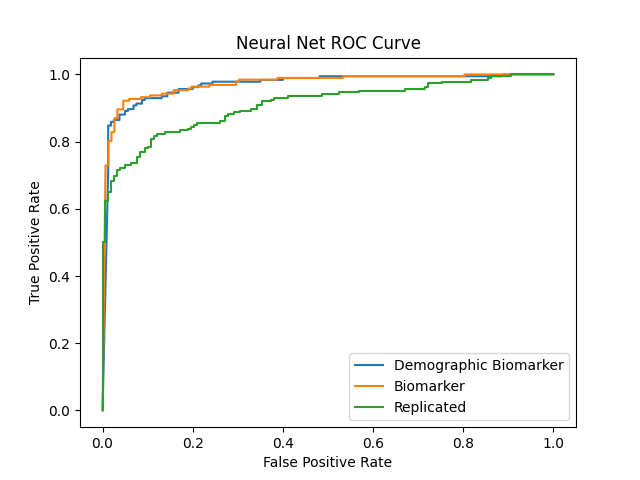
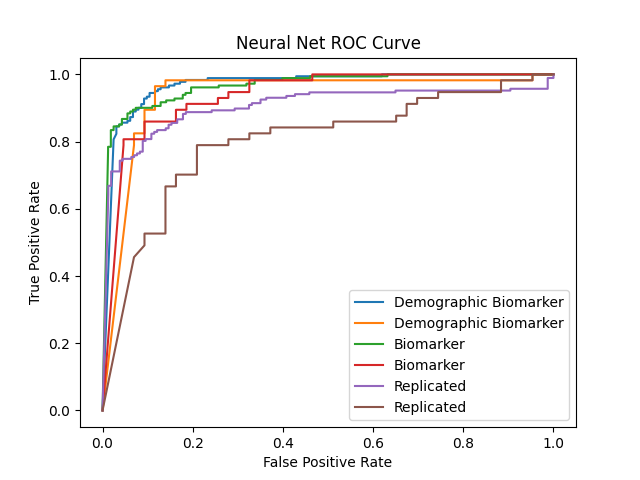
updated sampleID extraction

diff --git a/utils.py b/utils.py
@@ -21,21 +21,67 @@ def train_test_dev_split(dataset, dev_percentage=0.2):
     return X_train, X_dev, X_test, y_train, y_dev, y_test
 
 
+
 def read_data():
     sample_data = pd.read_csv('dataset/Consolidated_CancerSEEK_Data.csv')
+    cols = ['Patient ID #', 'Age', 'Sex', 'Race', 'Tumor type', 'AJCC Stage', 'Ω score', 'AFP (pg/ml)', \
+            'Angiopoietin-2 (pg/ml)', 'AXL (pg/ml)', 'CA-125 (U/ml)', 'CA 15-3 (U/ml)', 'CA19-9 (U/ml)', 'CD44 (ng/ml)', \
+            'CEA (pg/ml)', 'CYFRA 21-1 (pg/ml)', 'DKK1 (ng/ml)', 'Endoglin (pg/ml)', 'FGF2 (pg/ml)', 'Follistatin (pg/ml)', \
+            'Galectin-3 (ng/ml)', 'G-CSF (pg/ml)', 'GDF15 (ng/ml)', 'HE4 (pg/ml)', 'HGF (pg/ml)', 'IL-6 (pg/ml)', \
+            'IL-8 (pg/ml)', 'Kallikrein-6 (pg/ml)', 'Leptin (pg/ml)', 'Mesothelin (ng/ml)', 'Midkine (pg/ml)', \
+            'Myeloperoxidase (ng/ml)', 'NSE (ng/ml)', 'OPG (ng/ml)', 'OPN (pg/ml)', 'PAR (pg/ml)', 'Prolactin (pg/ml)', \
+            'sEGFR (pg/ml)', 'sFas (pg/ml)', 'SHBG (nM)', 'sHER2/sEGFR2/sErbB2 (pg/ml)', 'sPECAM-1 (pg/ml)', 'TGFa (pg/ml)', \
+            'Thrombospondin-2 (pg/ml)', 'TIMP-1 (pg/ml)', 'TIMP-2 (pg/ml)', 'CancerSEEK Logistic Regression Score', \
+            'CancerSEEK Test Result', 'Sample ID #', 'Ground Truth']
+    sample_data = sample_data[cols]
+    # print(sample_data.columns.tolist())
     sample_data = sample_data.drop(["Patient ID #", "Sample ID #", "Tumor type", "Race", "AJCC Stage"], axis=1)
-
-    demographic_biomarker_data = sample_data.drop(["CancerSEEK Logistic Regression Score", "CancerSEEK Test Result"],
-                                                  axis=1)
+    demographic_biomarker_data = sample_data.drop(["CancerSEEK Logistic Regression Score", "CancerSEEK Test Result"],axis=1)
     biomarker_data = demographic_biomarker_data.drop(["Age", "Sex"], axis=1)
     replicated_biomarker_data = biomarker_data[
         ["Ω score", "CA-125 (U/ml)", "CA19-9 (U/ml)", "CEA (pg/ml)", "HGF (pg/ml)",
-         "Myeloperoxidase (ng/ml)", "OPN (pg/ml)", "Prolactin (pg/ml)", "TIMP-1 (pg/ml)",
-         "Ground Truth"]]
+         "Myeloperoxidase (ng/ml)", "OPN (pg/ml)", "Prolactin (pg/ml)", "TIMP-1 (pg/ml)", "Ground Truth"]]
 
     return train_test_dev_split(demographic_biomarker_data), \
            train_test_dev_split(biomarker_data), \
            train_test_dev_split(replicated_biomarker_data)
+
+
+
+def train_test_dev_split_cancer(dataset, dev_percentage=0.2):
+    assert 0.0 <= dev_percentage <= 1.0
+    dataset = dataset.to_numpy()
+    col_length = dataset.shape[1]
+    X_train, X_dev, y_train, y_dev = train_test_split(dataset[:-100, 0:col_length - 2], dataset[:-100, -1], \
+                                     test_size=dev_percentage)
+    X_test = dataset[-100:, :col_length - 2]
+    y_test = dataset[-100:, -2:]
+
+    return X_train, X_dev, X_test, y_train, y_dev, y_test
+
+
+def read_data_cancertype():
+    sample_data = pd.read_csv('dataset/Consolidated_CancerSEEK_Data.csv')
+    cols = ['Patient ID #', 'Age', 'Sex', 'Race', 'Tumor type', 'AJCC Stage', 'Ω score', 'AFP (pg/ml)', \
+            'Angiopoietin-2 (pg/ml)', 'AXL (pg/ml)', 'CA-125 (U/ml)', 'CA 15-3 (U/ml)', 'CA19-9 (U/ml)', 'CD44 (ng/ml)', \
+            'CEA (pg/ml)', 'CYFRA 21-1 (pg/ml)', 'DKK1 (ng/ml)', 'Endoglin (pg/ml)', 'FGF2 (pg/ml)', 'Follistatin (pg/ml)', \
+            'Galectin-3 (ng/ml)', 'G-CSF (pg/ml)', 'GDF15 (ng/ml)', 'HE4 (pg/ml)', 'HGF (pg/ml)', 'IL-6 (pg/ml)', \
+            'IL-8 (pg/ml)', 'Kallikrein-6 (pg/ml)', 'Leptin (pg/ml)', 'Mesothelin (ng/ml)', 'Midkine (pg/ml)', \
+            'Myeloperoxidase (ng/ml)', 'NSE (ng/ml)', 'OPG (ng/ml)', 'OPN (pg/ml)', 'PAR (pg/ml)', 'Prolactin (pg/ml)', \
+            'sEGFR (pg/ml)', 'sFas (pg/ml)', 'SHBG (nM)', 'sHER2/sEGFR2/sErbB2 (pg/ml)', 'sPECAM-1 (pg/ml)', 'TGFa (pg/ml)', \
+            'Thrombospondin-2 (pg/ml)', 'TIMP-1 (pg/ml)', 'TIMP-2 (pg/ml)', 'CancerSEEK Logistic Regression Score', \
+            'CancerSEEK Test Result', 'Sample ID #', 'Ground Truth']
+    sample_data = sample_data[cols]
+    sample_data = sample_data.drop(["Patient ID #", "Tumor type", "Race", "AJCC Stage"], axis=1)
+    demographic_biomarker_data = sample_data.drop(["CancerSEEK Logistic Regression Score", "CancerSEEK Test Result"],axis=1)
+    biomarker_data = demographic_biomarker_data.drop(["Age", "Sex"], axis=1)
+    replicated_biomarker_data = biomarker_data[
+        ["Ω score", "CA-125 (U/ml)", "CA19-9 (U/ml)", "CEA (pg/ml)", "HGF (pg/ml)",
+         "Myeloperoxidase (ng/ml)", "OPN (pg/ml)", "Prolactin (pg/ml)", "TIMP-1 (pg/ml)", "Sample ID #", "Ground Truth"]]
+
+    return train_test_dev_split_cancer(demographic_biomarker_data), \
+           train_test_dev_split_cancer(biomarker_data), \
+           train_test_dev_split_cancer(replicated_biomarker_data)
 
 
 def acc_spec_sens(y_hat, y):
@@ -69,3 +115,14 @@ def plot_roc(y_pred_probs, y_actual, model_type, dataset_type, fname):
     plt.savefig(fname)
 
     return roc_auc_score(y_actual, y_pred_probs)
+
+
+"""
+demographic_biomarker_data, biomarker_data, replicated_biomarker_data = read_data_cancertype()
+X_train, X_dev, X_test, y_train, y_dev, y_test = demographic_biomarker_data
+print(y_dev.astype(np.float32))
+
+demographic_biomarker_data, biomarker_data, replicated_biomarker_data = read_data()
+X_train, X_dev, X_test, y_train, y_dev, y_test = demographic_biomarker_data
+print(y_dev)
+"""

diff --git a/NeuralNetwork.py b/NeuralNetwork.py
@@ -6,7 +6,6 @@ from sklearn.metrics import roc_auc_score
 from torch.autograd import Variable
 import torch.optim as optim
 import numpy as np
-
 import utils
 
 class Net(nn.Module):
@@ -63,13 +62,13 @@ def train_epoch(model, opt, criterion, X, Y, epochs=4000, batch_size=50):
 			# (4) update weights
 			opt.step()
 			losses.append(loss.data.numpy())
-		if i%100 == 0:
-			print("Epoch: ", i, "- ",loss.data.numpy())
+		#if i%100 == 0:
+			#print("Epoch: ", i, "- ",loss.data.numpy())
 	return model
 
 
 def run_network(dataset, learning_rate, epochs, hidden_layer, dataset_type):
-	X_train, X_dev, X_test, y_train, y_dev, _ = dataset
+	X_train, X_dev, X_test, y_train, y_dev, y_test = dataset
 	sc = StandardScaler()
 
 	# briefly combine the Xs so we can run fit_transform on them
@@ -86,35 +85,58 @@ def run_network(dataset, learning_rate, epochs, hidden_layer, dataset_type):
 	net = Net(X_train.shape[1], hidden_layer)
 	opt = optim.Adam(net.parameters(), learning_rate, betas=(0.9, 0.999))
 	criterion = nn.BCELoss()
-	e_losses = []
 	model = train_epoch(net, opt, criterion, X_train, y_train, epochs)
 
 	# predictions
 	output = predict(model, X_dev)
+	y_dev = y_dev.astype(np.float32)
 	roc_auc_score = utils.plot_roc(output, y_dev, 'Neural Net', dataset_type, './graphs/nn_roc')
 	print("Dataset: ", dataset_type)
 	print("ROC, AUC score: ", roc_auc_score)
-	y_hat = np.rint(output)
-	"""
+	y_hat_rint = np.rint(output)
 	y_hat = []
-	cutoff = .5
+	cutoff = .99999
 	for i in range(len(output)):
 		if output[i] >= cutoff:
 			y_hat.append(1)
 		else:
 			y_hat.append(0)
 	y_hat = np.array(y_hat)
-	"""
-
 	accuracy, specificity, sensitivity = utils.acc_spec_sens(y_hat, y_dev)
 	print("Accuracy = ", accuracy, ", Specificity = ", specificity, ", Sensitivity = ", sensitivity)
+	return model, X_test, y_test
+
+def run_testdata(model, X, y, dataset_type):
+	print("TEST DATA: Dataset ", dataset_type)
+	# predictions
+	output = predict(model, X)
+	y_test = y[:, 1].astype(np.float32)
+	sample_ids = y[:, 0]
+	roc_auc_score = utils.plot_roc(output, y_test, 'Neural Net', dataset_type, './graphs/nn_roc')
+	print("ROC, AUC score: ", roc_auc_score)
+	y_hat = []
+	cutoff = .99999
+	for i in range(len(output)):
+		if output[i] >= cutoff:
+			y_hat.append(1)
+		else:
+			y_hat.append(0)
+	y_hat = np.array(y_hat)
+	accuracy, specificity, sensitivity = utils.acc_spec_sens(y_hat, y_test)
+	print("Accuracy = ", accuracy, ", Specificity = ", specificity, ", Sensitivity = ", sensitivity)
+	analyze_cancer_type(y_hat, y_test)
+
 
 
 if __name__ == "__main__":
-	EPOCHS = 100
+	EPOCHS = 400
 	LR = .005
 	NUM_HIDDEN_LAYERS = 100
-	demographic_biomarker_data, biomarker_data, replicated_biomarker_data = utils.read_data()
-	run_network(demographic_biomarker_data, LR, EPOCHS, NUM_HIDDEN_LAYERS, 'Demographic Biomarker')
-	run_network(biomarker_data, LR, EPOCHS, NUM_HIDDEN_LAYERS, 'Biomarker')
-	run_network(replicated_biomarker_data, LR, EPOCHS, NUM_HIDDEN_LAYERS, 'Replicated')
+	demographic_biomarker_data, biomarker_data, replicated_biomarker_data = utils.read_data_cancertype()
+	model, X_test, y_test = run_network(demographic_biomarker_data, LR, EPOCHS, NUM_HIDDEN_LAYERS, 'Demographic Biomarker')
+	run_testdata(model, X_test, y_test, 'Demographic Biomarker')
+	model, X_test, y_test = run_network(biomarker_data, LR, EPOCHS, NUM_HIDDEN_LAYERS, 'Biomarker')
+	run_testdata(model, X_test, y_test, 'Biomarker')
+	model, X_test, y_test = run_network(replicated_biomarker_data, LR, EPOCHS, NUM_HIDDEN_LAYERS, 'Replicated')
+	run_testdata(model, X_test, y_test, 'Replicated')
+
